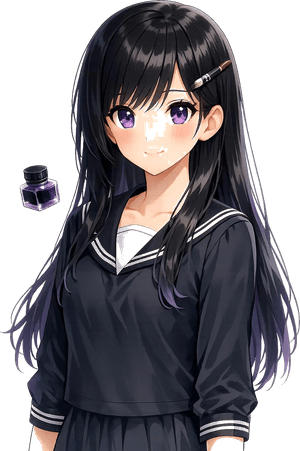
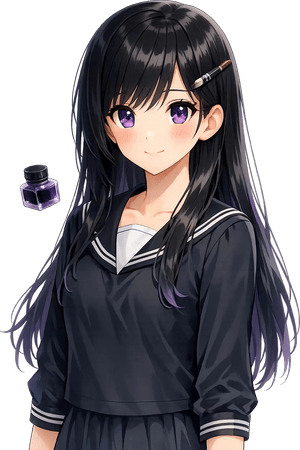
抠图修复-原图面部零损伤

diff --git a/sw.js b/sw.js
@@ -1,1 +1,1 @@
-if(!self.define){let e,i={};const s=(s,n)=>(s=new URL(s+".js",n).href,i[s]||new Promise(i=>{if("document"in self){const e=document.createElement("script");e.src=s,e.onload=i,document.head.appendChild(e)}else e=s,importScripts(s),i()}).then(()=>{let e=i[s];if(!e)throw new Error(`Module ${s} didn’t register its module`);return e}));self.define=(n,r)=>{const c=e||("document"in self?document.currentScript.src:"")||location.href;if(i[c])return;let o={};const t=e=>s(e,c),a={module:{uri:c},exports:o,require:t};i[c]=Promise.all(n.map(e=>a[e]||t(e))).then(e=>(r(...e),o))}}define(["./workbox-e4022e15"],function(e){"use strict";self.skipWaiting(),e.clientsClaim(),e.precacheAndRoute([{url:"registerSW.js",revision:"53f643b2487f2b0d413e2a80bb6c2feb"},{url:"index.html",revision:"61c762ca8319da26ba8cb1a1785ba162"},{url:"favicon.svg",revision:"0abef3ebaf8a2931a753d90f29229912"},{url:"mascot/thinking.png",revision:"1580fdccee632c170bd4275774fb3d86"},{url:"mascot/surprised.png",revision:"0a6114fb2e40615bcad8053d56e9c815"},{url:"mascot/normal.png",revision:"cec2151da26bbd476bc27c800c7cd905"},{url:"mascot/happy.png",revision:"004a7d251c93427906a0e488d3916bc0"},{url:"assets/index-Cp9AgcZd.js",revision:null},{url:"assets/index-CgI6kEY9.css",revision:null},{url:"favicon.svg",revision:"0abef3ebaf8a2931a753d90f29229912"},{url:"manifest.webmanifest",revision:"0b7b665f490fedc2aef7f548065d6e55"}],{}),e.cleanupOutdatedCaches(),e.registerRoute(new e.NavigationRoute(e.createHandlerBoundToURL("index.html"))),e.registerRoute(/^https?:\/\/.*/,new e.NetworkFirst({cacheName:"app-cache",plugins:[new e.ExpirationPlugin({maxEntries:200,maxAgeSeconds:2592e3})]}),"GET")});
+if(!self.define){let e,i={};const s=(s,n)=>(s=new URL(s+".js",n).href,i[s]||new Promise(i=>{if("document"in self){const e=document.createElement("script");e.src=s,e.onload=i,document.head.appendChild(e)}else e=s,importScripts(s),i()}).then(()=>{let e=i[s];if(!e)throw new Error(`Module ${s} didn’t register its module`);return e}));self.define=(n,r)=>{const o=e||("document"in self?document.currentScript.src:"")||location.href;if(i[o])return;let t={};const a=e=>s(e,o),c={module:{uri:o},exports:t,require:a};i[o]=Promise.all(n.map(e=>c[e]||a(e))).then(e=>(r(...e),t))}}define(["./workbox-e4022e15"],function(e){"use strict";self.skipWaiting(),e.clientsClaim(),e.precacheAndRoute([{url:"registerSW.js",revision:"53f643b2487f2b0d413e2a80bb6c2feb"},{url:"index.html",revision:"61c762ca8319da26ba8cb1a1785ba162"},{url:"favicon.svg",revision:"0abef3ebaf8a2931a753d90f29229912"},{url:"mascot/thinking.png",revision:"1580fdccee632c170bd4275774fb3d86"},{url:"mascot/surprised.png",revision:"0a6114fb2e40615bcad8053d56e9c815"},{url:"mascot/normal.png",revision:"bdd5ca5a8f284df2f538e302911885ff"},{url:"mascot/happy.png",revision:"004a7d251c93427906a0e488d3916bc0"},{url:"assets/index-Cp9AgcZd.js",revision:null},{url:"assets/index-CgI6kEY9.css",revision:null},{url:"favicon.svg",revision:"0abef3ebaf8a2931a753d90f29229912"},{url:"manifest.webmanifest",revision:"0b7b665f490fedc2aef7f548065d6e55"}],{}),e.cleanupOutdatedCaches(),e.registerRoute(new e.NavigationRoute(e.createHandlerBoundToURL("index.html"))),e.registerRoute(/^https?:\/\/.*/,new e.NetworkFirst({cacheName:"app-cache",plugins:[new e.ExpirationPlugin({maxEntries:200,maxAgeSeconds:2592e3})]}),"GET")});
